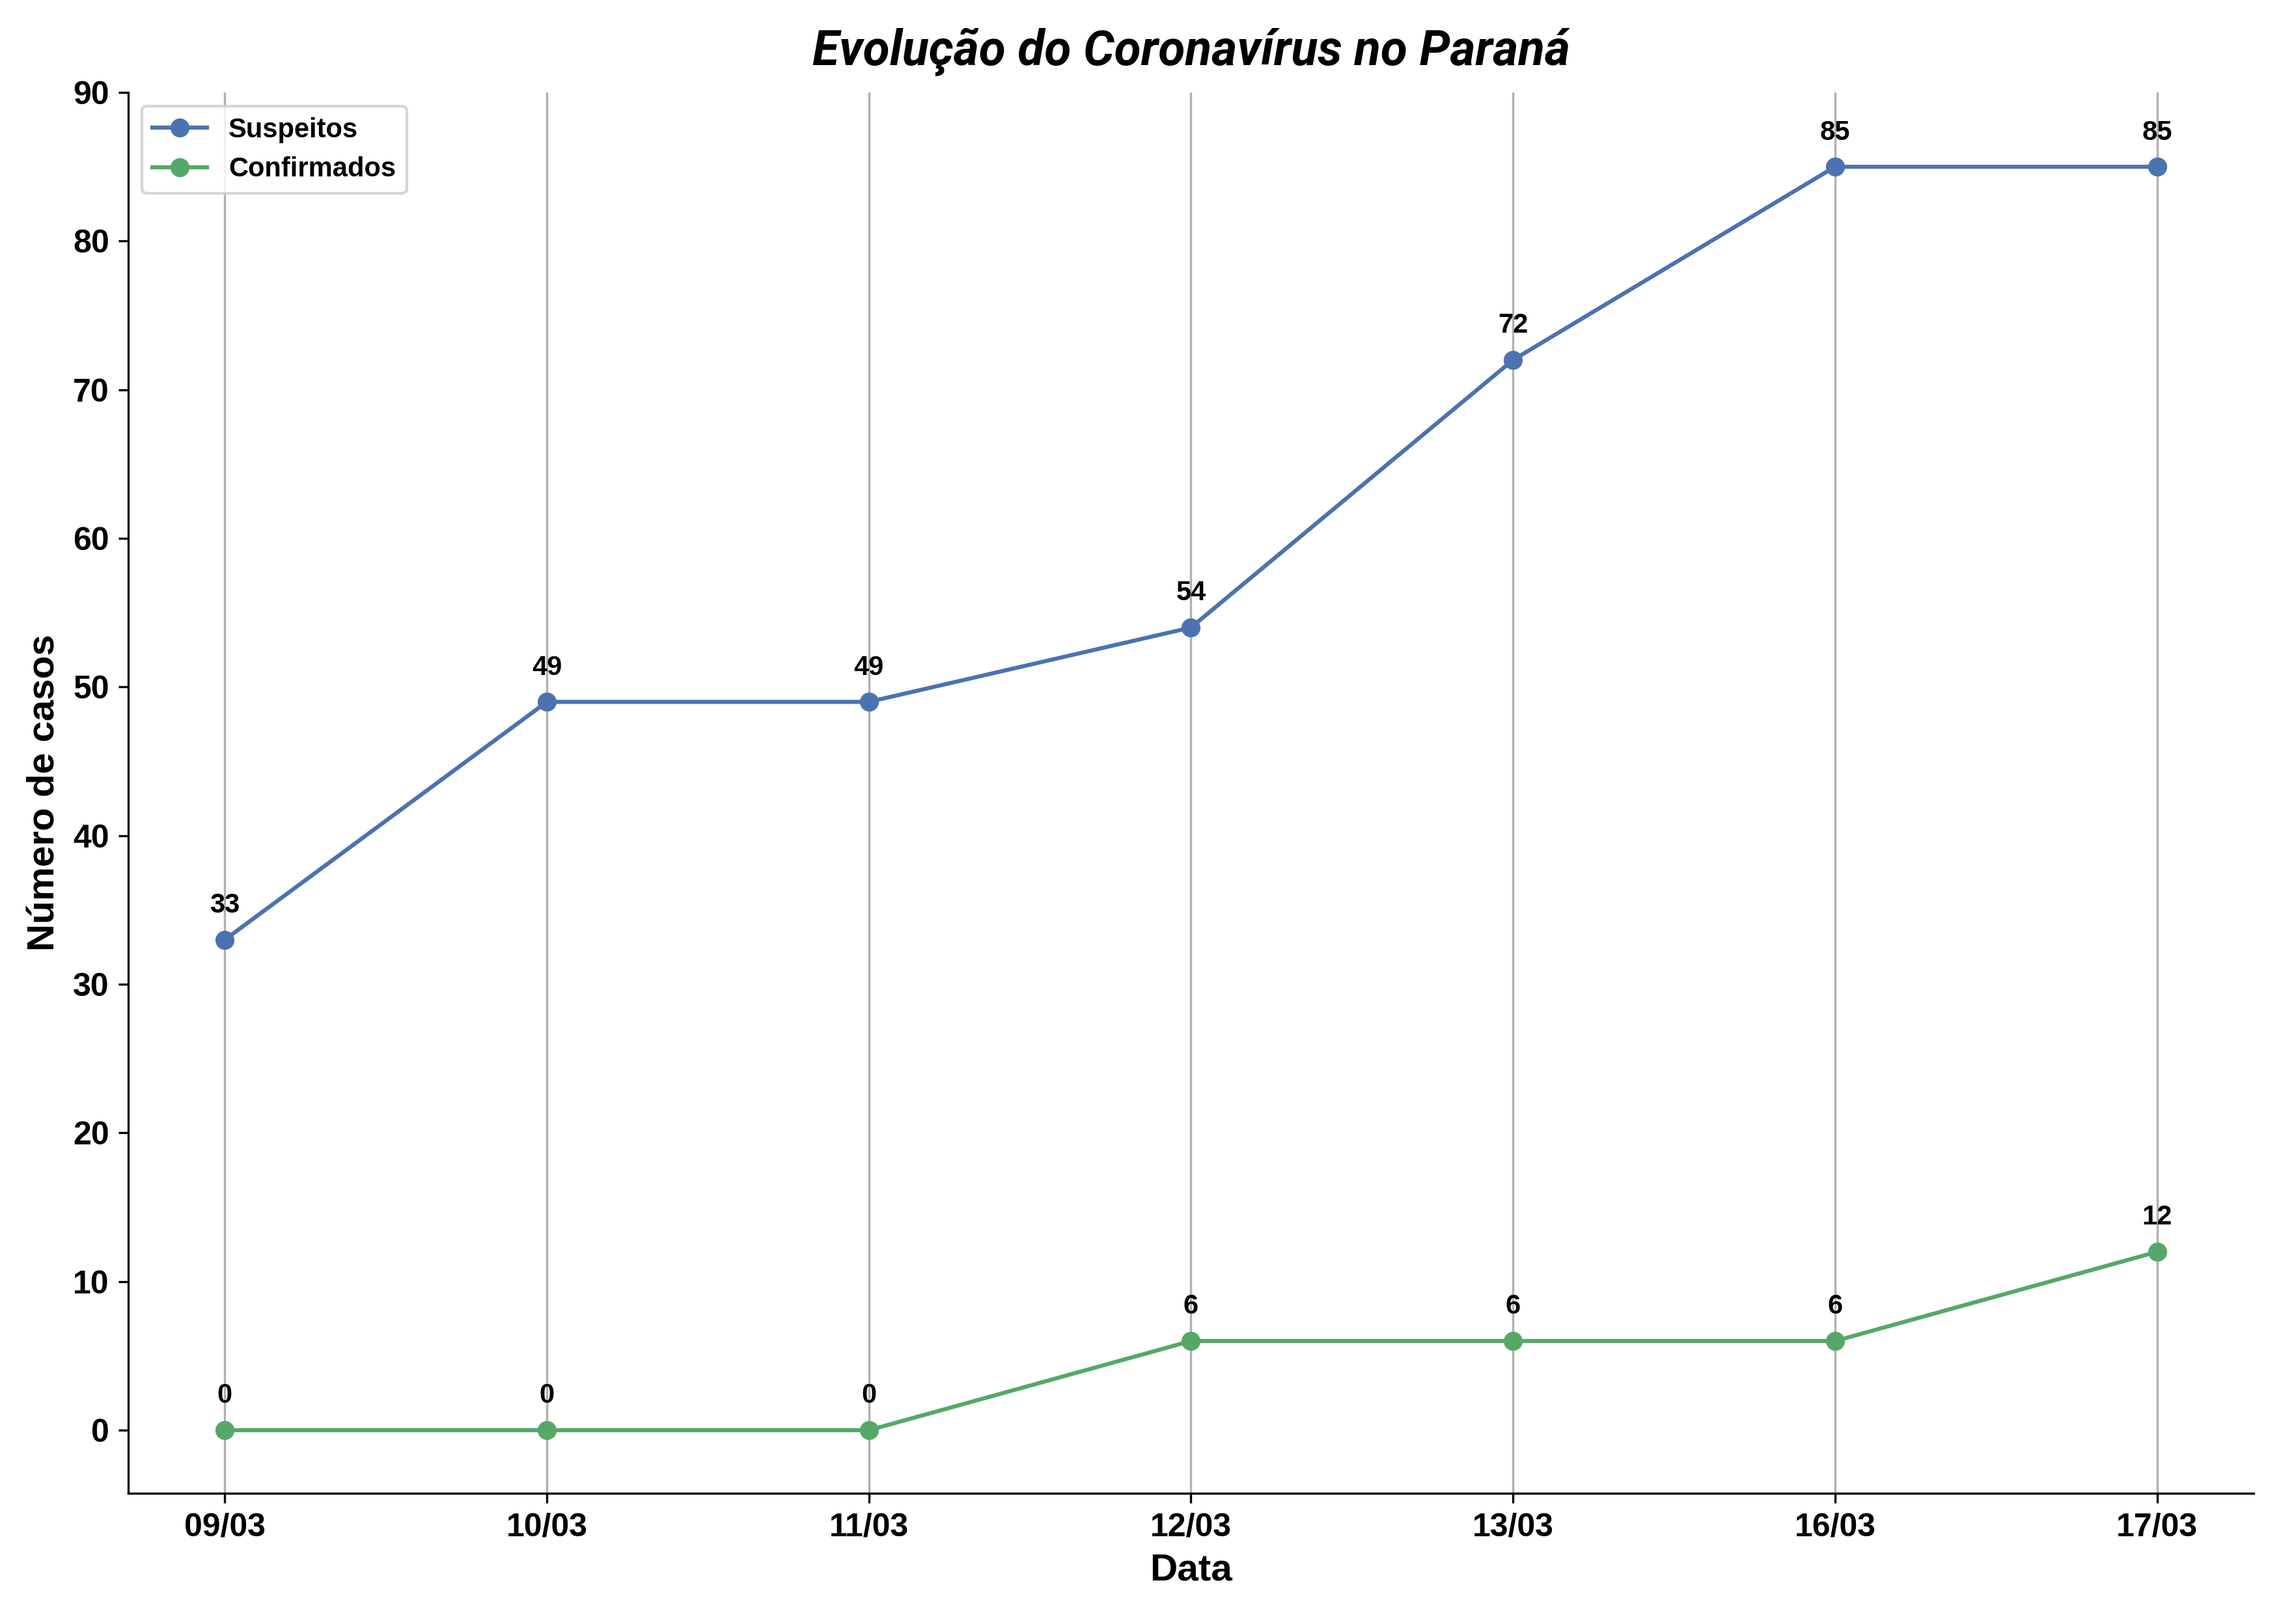
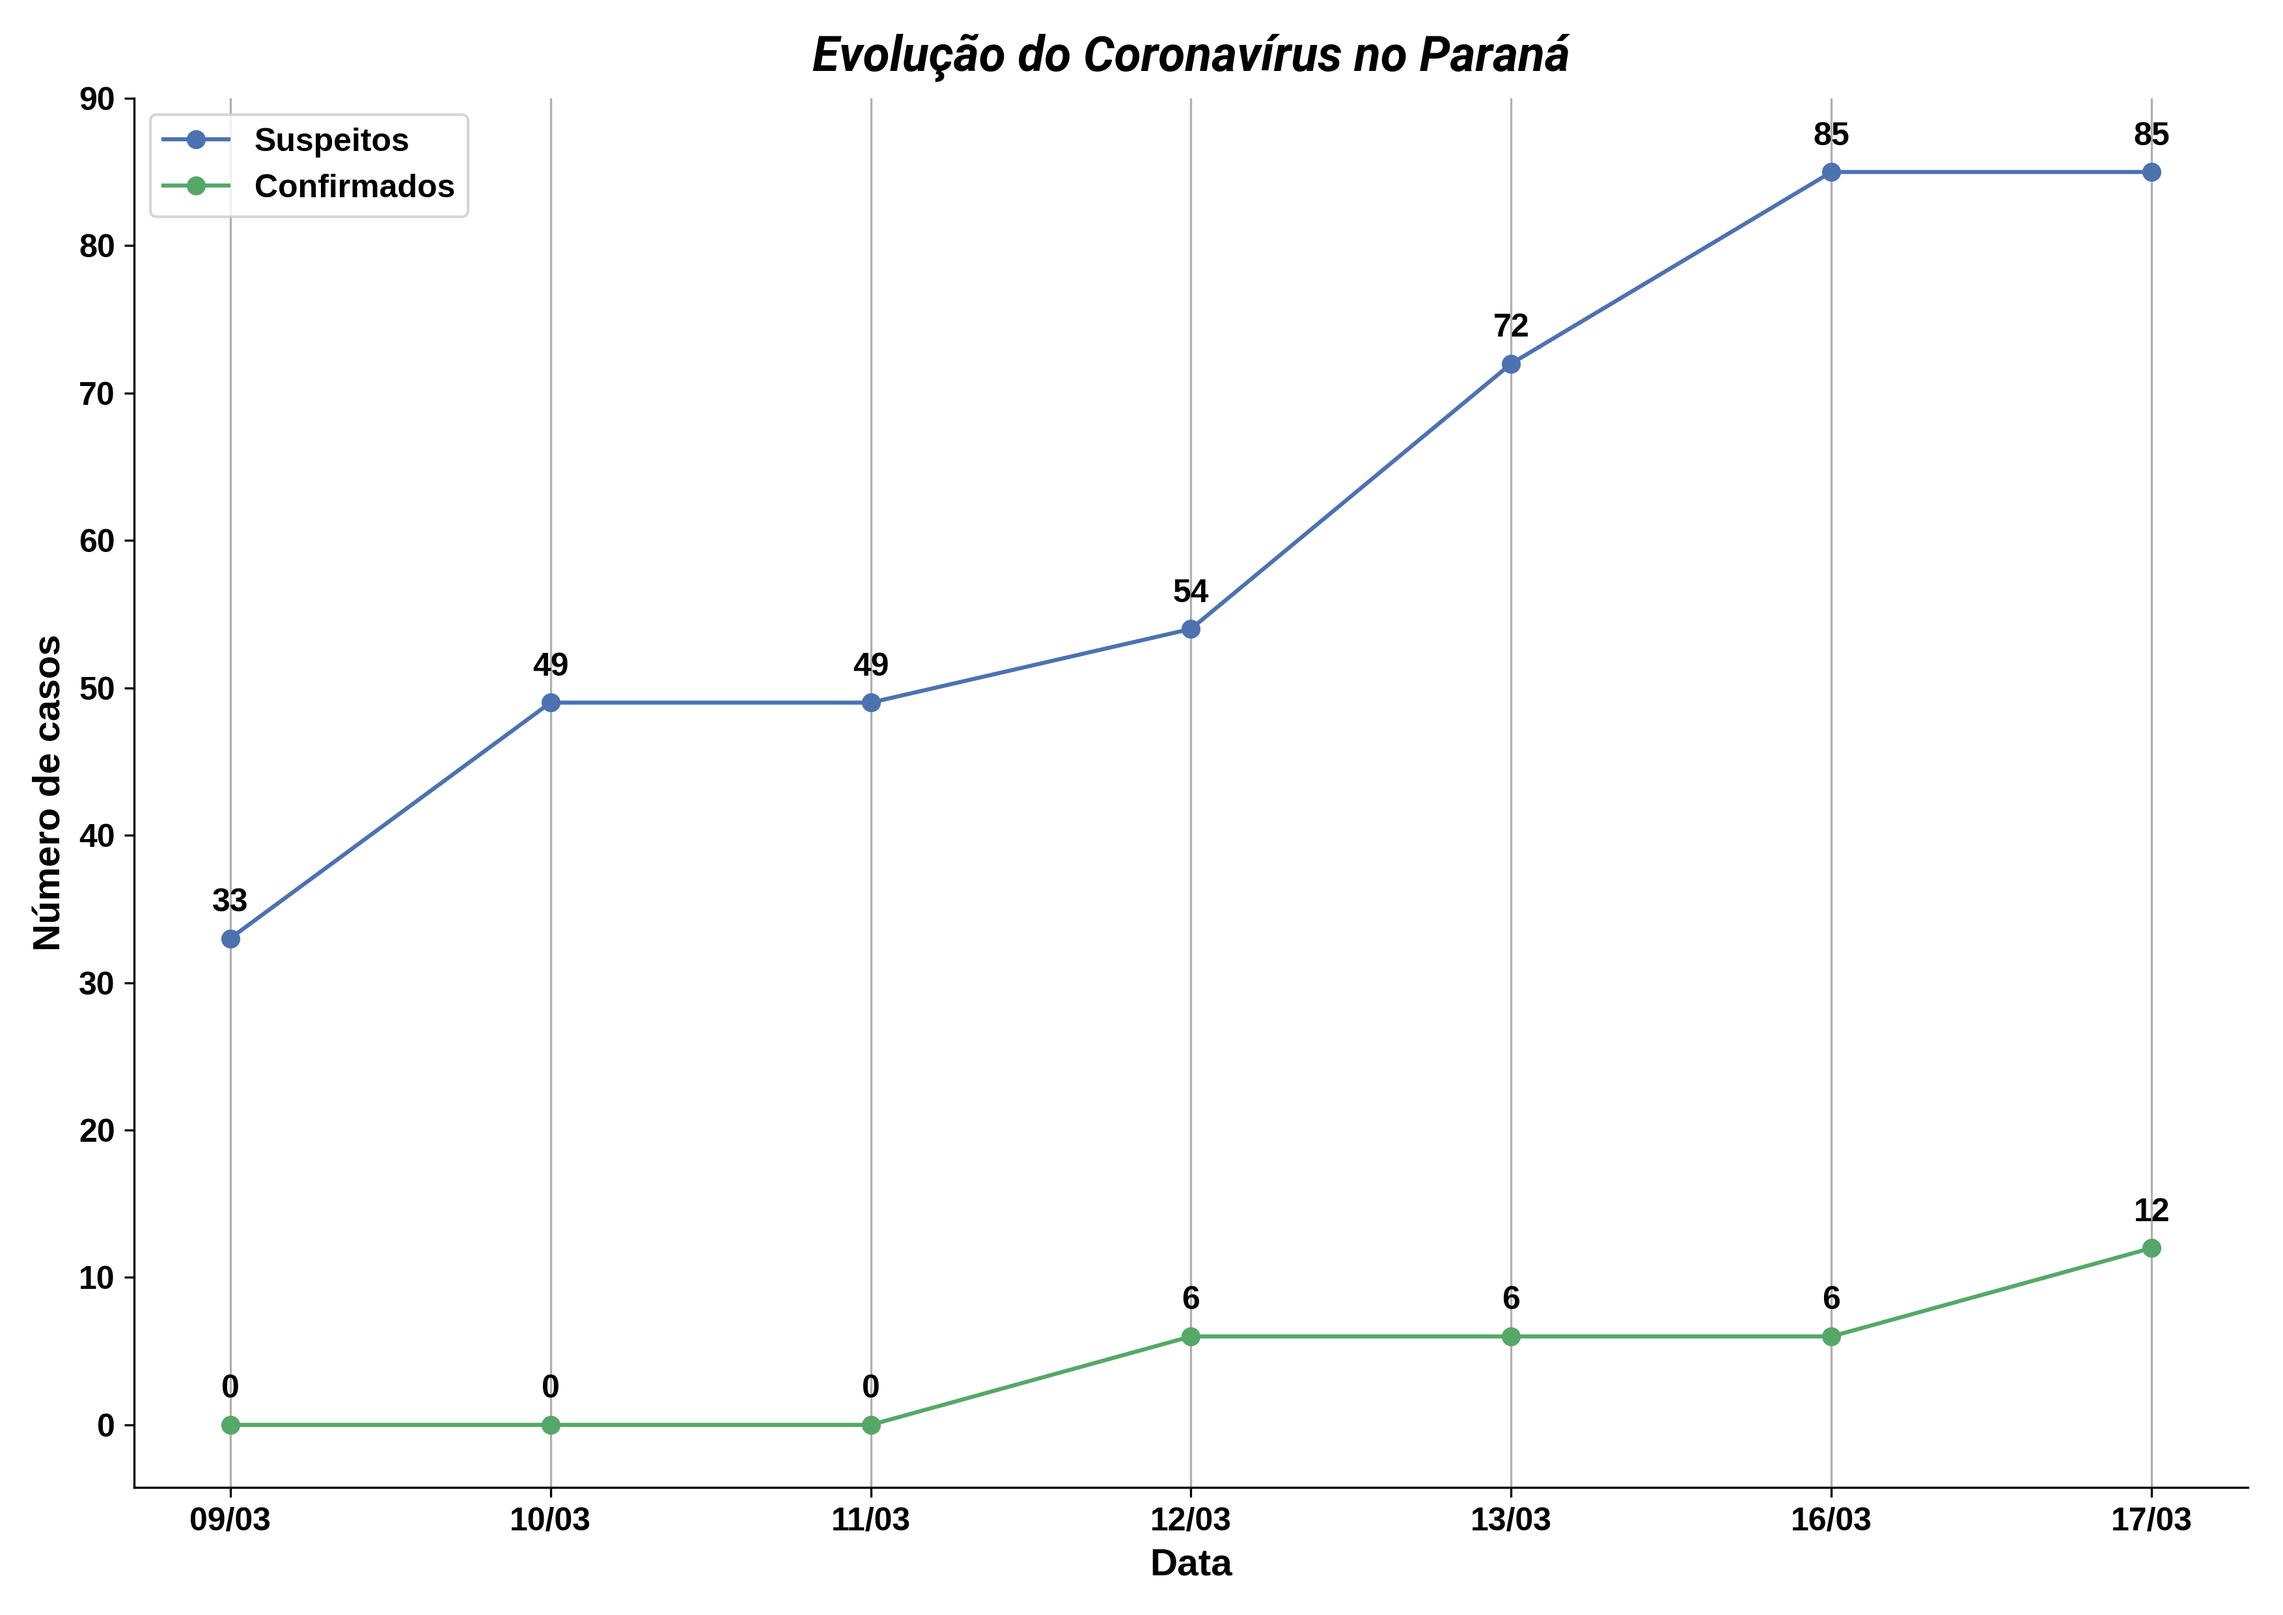
Change x axis font size

diff --git a/coronga-pr.py b/coronga-pr.py
@@ -8,7 +8,7 @@ font = {
     'family': 'Liberation Sans',
     'serif': 'FreeSerif',
     'weight': 'bold',
-    'size': 10
+    'size': 12
 }
 
 title_font = {
